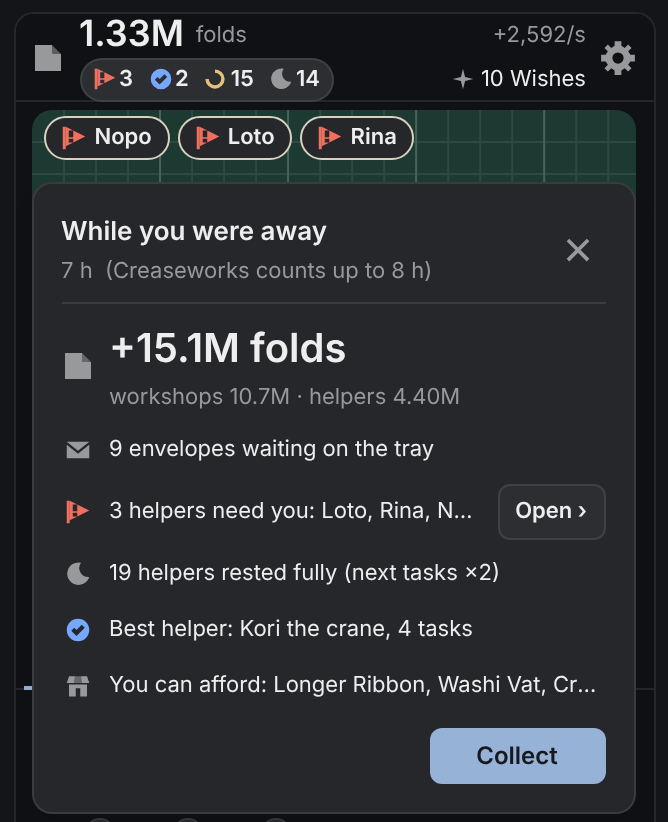
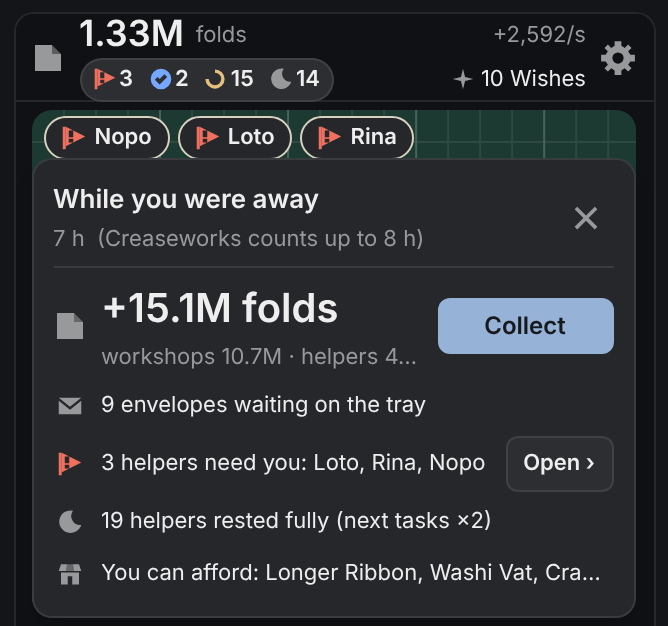
Refresh README screenshots after verification round 7
Claude-Session: https://claude.ai/code/session_018T6HA6JM8ZG8oRmwrts9Xj

diff --git a/docs/screenshots/CAPTIONS.md b/docs/screenshots/CAPTIONS.md
@@ -14,7 +14,7 @@ Made by `node --import ./tools/node/register.mjs tools/shots/hero.mjs [--only na
 - confetti.png — Confetti. You opened a Rush envelope and then a Confetti envelope from the tray (two envelopes are left), and you are clicking fast enough to be In step. Confetti scatters paper flecks over the mat and keeps dropping chains. You have just clicked the last node of one: its crease line runs across the mat, and its "+48.1K" sits where that last node was. A gilded crane glides in and two scraps wait to be picked up. Confetti ×6 and Rush ×3 run below the mat. Alt: "A mat scattered with confetti flecks, with dashed crease lines zigzagging across it, one ending at a +48.1K pop, a gold crane, two paper scraps, a folded paper triangle, two envelopes in the tray, the streak meter full and reading In step, and Confetti ×6 and Rush ×3 timers below."
 - shop.png — The Shop's Works. Workshops are owned in the dozens with their rates, and the next ones are within reach. The Washi Vat is still out of reach ("in 29m 33s"). The crop ends there: the tiers after it stay hidden until you own the one above. Alt: "The Shop tab with segments Works, Tools, Folk, Charms, Curios and Auto, a ×1 / ×10 / Max buy switch, and Paper Stack ×40, Bone Folder ×30, Scissor Stand ×22, Glue Pot ×14 and Fold Bench ×6 with lit buy buttons, then a greyed Washi Vat at 5.90M."
 - string.png — String the Thousand, later in the same game: the String holds 1,000 of 1,000 cranes and the wish is ready. Cranes keep coming past 1,000, and every hundred more adds one more Wish to this wish. That is why a "Next crane" count still shows under a full String, and why this wish is ready at +13 Wishes. The grid is the mod's own: a thousand small strung cranes, drawn alike. Alt: "The String tab: The String, 1,000 / 1,000 cranes, a dark green card filled with rows of small strung paper cranes, the lines Next crane in 33.9M folds · lifetime 49.3B and Ready: +13 Wishes, and a Make the wish (+13 Wishes) button."
-- away.png — Back after seven hours. The while-you-were-away card sums up the time away: +15.1M folds, the envelopes waiting, who needs you, who rested, the best helper and what you can now afford. The header still reads 1.33M because the card credits the folds when you click Collect. The long rows end in an ellipsis because the card is at most 304 px wide at any panel width. Alt: "A card over the panel titled While you were away, 7 h: +15.1M folds from workshops and helpers, 9 envelopes waiting, 3 helpers need you with an Open button, 19 helpers rested fully, best helper Kori the crane with 4 tasks, things you can afford, and a Collect button."
+- away.png — Back after seven hours. The while-you-were-away card sums up the time away: +15.1M folds, the envelopes waiting, who needs you, who rested and what you can now afford, with Collect beside the total. The header still reads 1.33M because the card credits the folds when you click Collect. The long rows end in an ellipsis because the card is at most 304 px wide at any panel width. Alt: "A card over the panel titled While you were away, 7 h: +15.1M folds from workshops and helpers, 9 envelopes waiting, 3 helpers need you with an Open button, 19 helpers rested fully, and things you can afford, with a Collect button beside the total."
 - ribbon.png — The 30 px ribbon under the terminals, end to end. It shows the fold total and one mark per helper for all 34, then the envelope count and the panel toggle, with herdr's status bar below. Alt: "A strip under the bottom edges of the panes: the fold total 1.32M at +2,592/s, a row of 34 small status marks (3 red flags, 2 blue checks with envelopes, yellow spinners and grey moons), an envelope count of 4 and a toggle, above herdr's status bar reading 34 agents · 3 need you."
 - themes.png — The same moment in all six herdr themes. Each cell shows the right edge of a terminal, the panel's tabs and Flock, the ribbon and herdr's status bar. Each label's three swatches are the theme's terminal background, chrome and accent, and all three show in the cell. The panel takes the theme's chrome colour, so win98's panel looks like paper's; win98 differs in its black terminals and navy accent. The four dark themes differ only slightly. That is true to the themes, not a rendering fault. Alt: "Six crops of the Creaseworks Flock and ribbon in a three-by-two grid, labelled graphite, paper, ink, moss, atom-one-dark and win98 with colour swatches: four near-black variants, a light paper one, and a light win98 one beside a black terminal."
 - rail.png — Folded to its 64 px rail, the game keeps to a thin column beside the terminals, and the terminals stay usable. The rail shows the fold total, the paper being folded, who needs you, the envelopes and every helper's status. The paper glyph is the mod's folding-sheet art at rail size, so at this size it reads as a small diamond. Alt: "A zsh terminal and a Codex terminal stacked beside a narrow full-height rail showing 1.31M folds, a small folded paper on a green tile, 3 needing you, 4 envelopes and a grid of 34 status marks."
